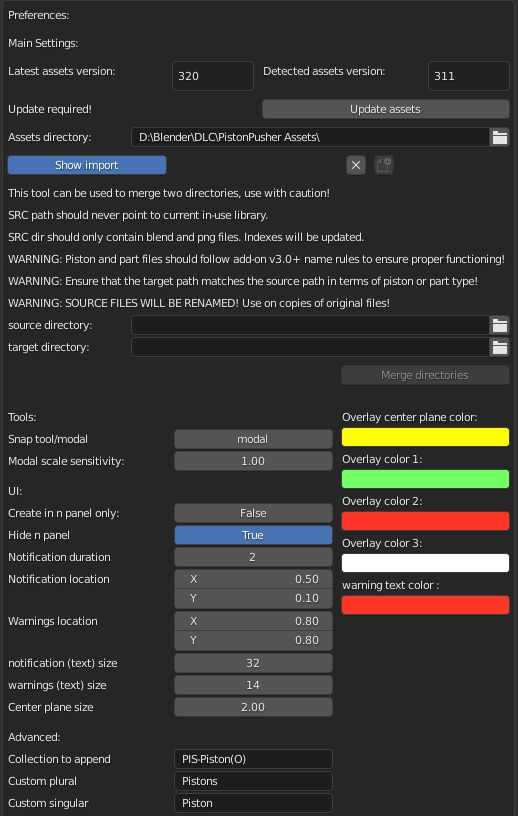
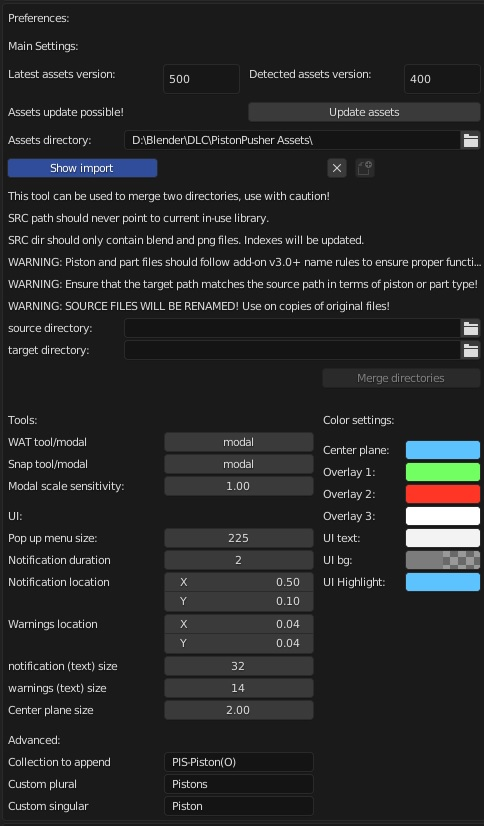
v5.0

diff --git a/docs/preferences.md b/docs/preferences.md
@@ -39,24 +39,22 @@ If executed succesfully, paths will be cleared and some information is printed t
 
   
 #UI
-**Create in n panel only** - Removed as of v3.4.4
-
-**Hide n panel** - Removed as of v3.4.4
-
-**Notification duration** - The length that a notification stays visible.(Fade out including)
-
-**Notification location** - Change the location of notifications. It's recommended that you only change the Y axis value.
-
-**Notification (text) size** - Change the size of notifications.
-
-**Warnings location** - Change the relative location of custom mode create onscreen warnings.
-
+**Pop up menu size** - Pop up menu width, this value adjusts for system ui scale internally.  
+  
+**Notification duration** - The length that a notification stays visible.(Fade out including)  
+  
+**Notification location** - Change the location of notifications. It's recommended that you only change the Y axis value.  
+  
+**Notification (text) size** - Change the size of notifications.  
+  
+**Warnings location** - Change the relative location of custom mode create onscreen warnings.  
+  
 **Warnings (text) size** - Warnings size. This value also decides the text size of other onscreen ui elements like that of the set bone as parent tool.  
+  
+**Center plane size** - Change the size of the (custom) center plane that's visible when the armature solver overlay is enabled.  
+   
 
-**Center plane size** - Change the size of the (custom) center plane that's visible when the armature solver overlay is enabled.
-
-
-#Advanced
+#Advanced  
 **Collection to append** - This is the piston (o)riginal collection. You can change this if you prefer so.  
 
 **Custom plural** - This value affects how 'type' collections are named.  

diff --git a/docs/Features/unijoints.md b/docs/Features/unijoints.md
@@ -1,0 +1,12 @@
+#Universal (cardan) joints
+
+Pistonpusher offers a simple universal joint rig. It comes with placeholder objects which can be changed as you see fit. So long you don't change bone names or remove any, the combine joint operator can be used to combine this joint with a piston. This will also rename the objects and make the cardan joint collection a child of the piston instance collection.  
+  
+To combine a universal joint with a piston, select the universal joint armature and then the piston cylinder, piston rod or another object that can be tracked and click on the 'combine joint' button in the tools section. If succesful, a 'JOINT IS SET UP' message will appear. Theoretically this should work regardless of orientation but I recommend doing this before a piston is placed or moved.  
+  
+This action will re-parent the respective original piston anchor to the universal joint rig, which will then act as the new anchor for that side. The snap modal does not support pistons with universal joints. Disable the 'reset new instances' opt-in if you need more instances.  
+  
+Lastly, the universal joint rig has 3 bones that are relevant for users. The a, b and c bone. a and b represent the mounting pieces, c is the cross object. Objects should be a child of these bones only. B should always point towards the piston. 
+
+
+

diff --git a/docs/Features/wat_modal.md b/docs/Features/wat_modal.md
@@ -1,0 +1,5 @@
+#WAT modal
+
+This modal operator provides a more visual approach to the track to and apply operator:  
+
+<iframe width="560" height="315" src="https://www.youtube.com/embed/nY2bRuFEzN0" title="YouTube video player" frameborder="0" allow="accelerometer; autoplay; clipboard-write; encrypted-media; gyroscope; picture-in-picture" allowfullscreen></iframe>  

diff --git a/docs/gettingstarted.md b/docs/gettingstarted.md
@@ -6,7 +6,7 @@ There is also a k- and decal(machine) pack, see the Kit ops/Decal Machine docume
 
 #Updating
 
-If replacing the files fails:
+If replacing the files fails for some reason:
 
 First remove the add-on in blender and then restart the client. Now you should be able to re-install the add-on safely.
 
